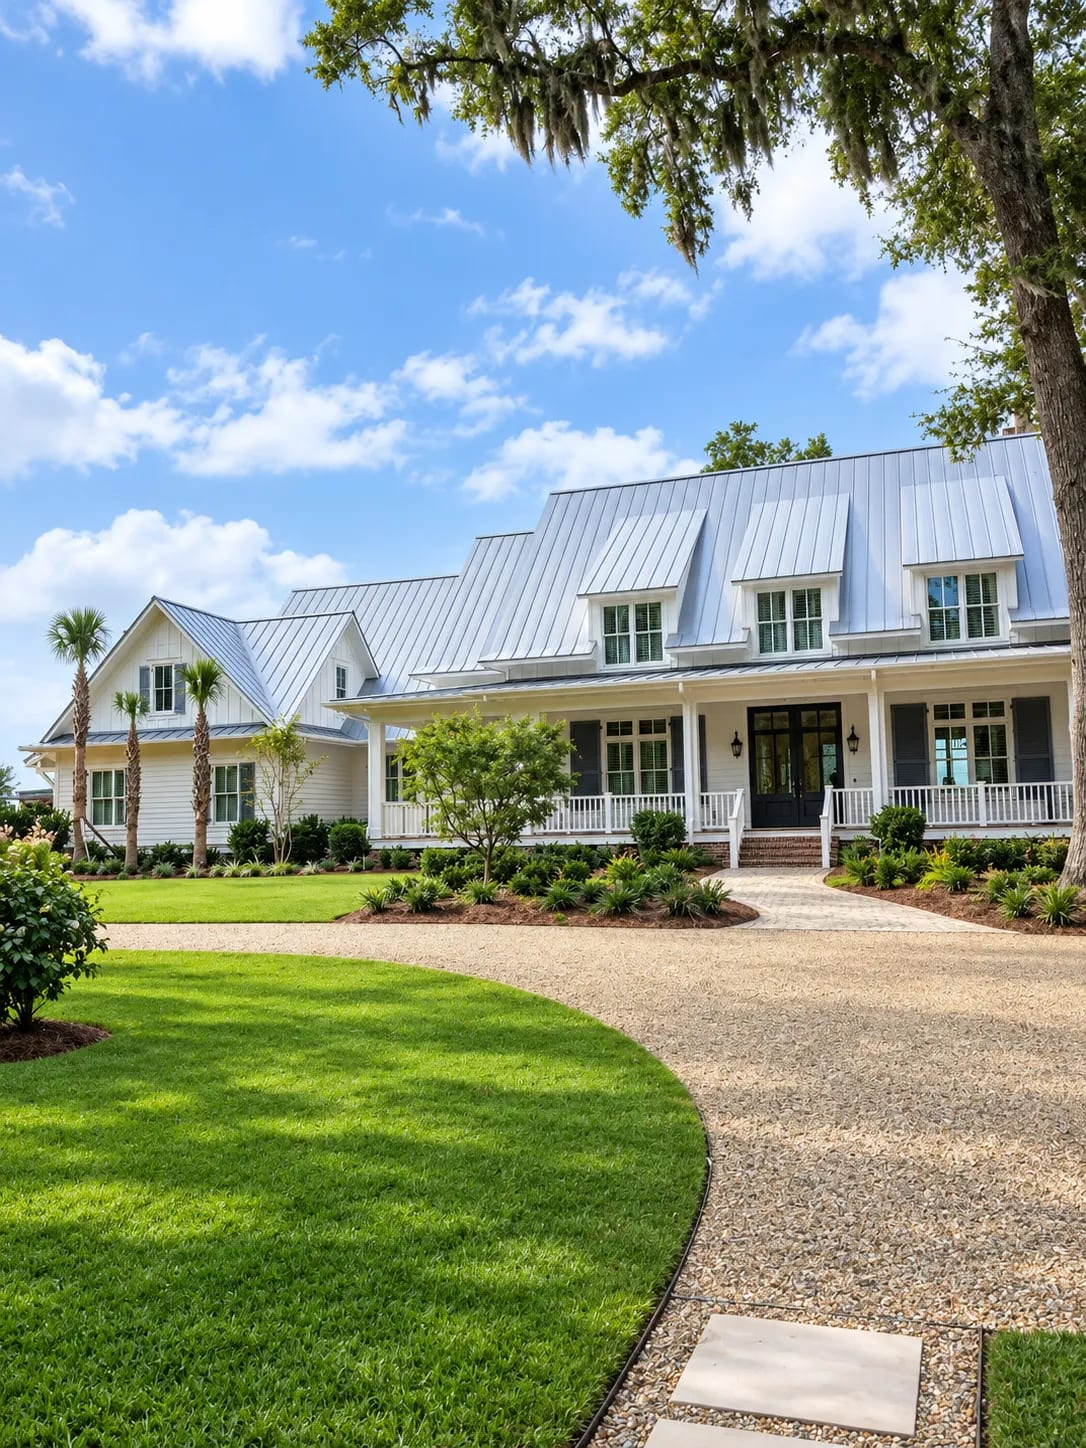
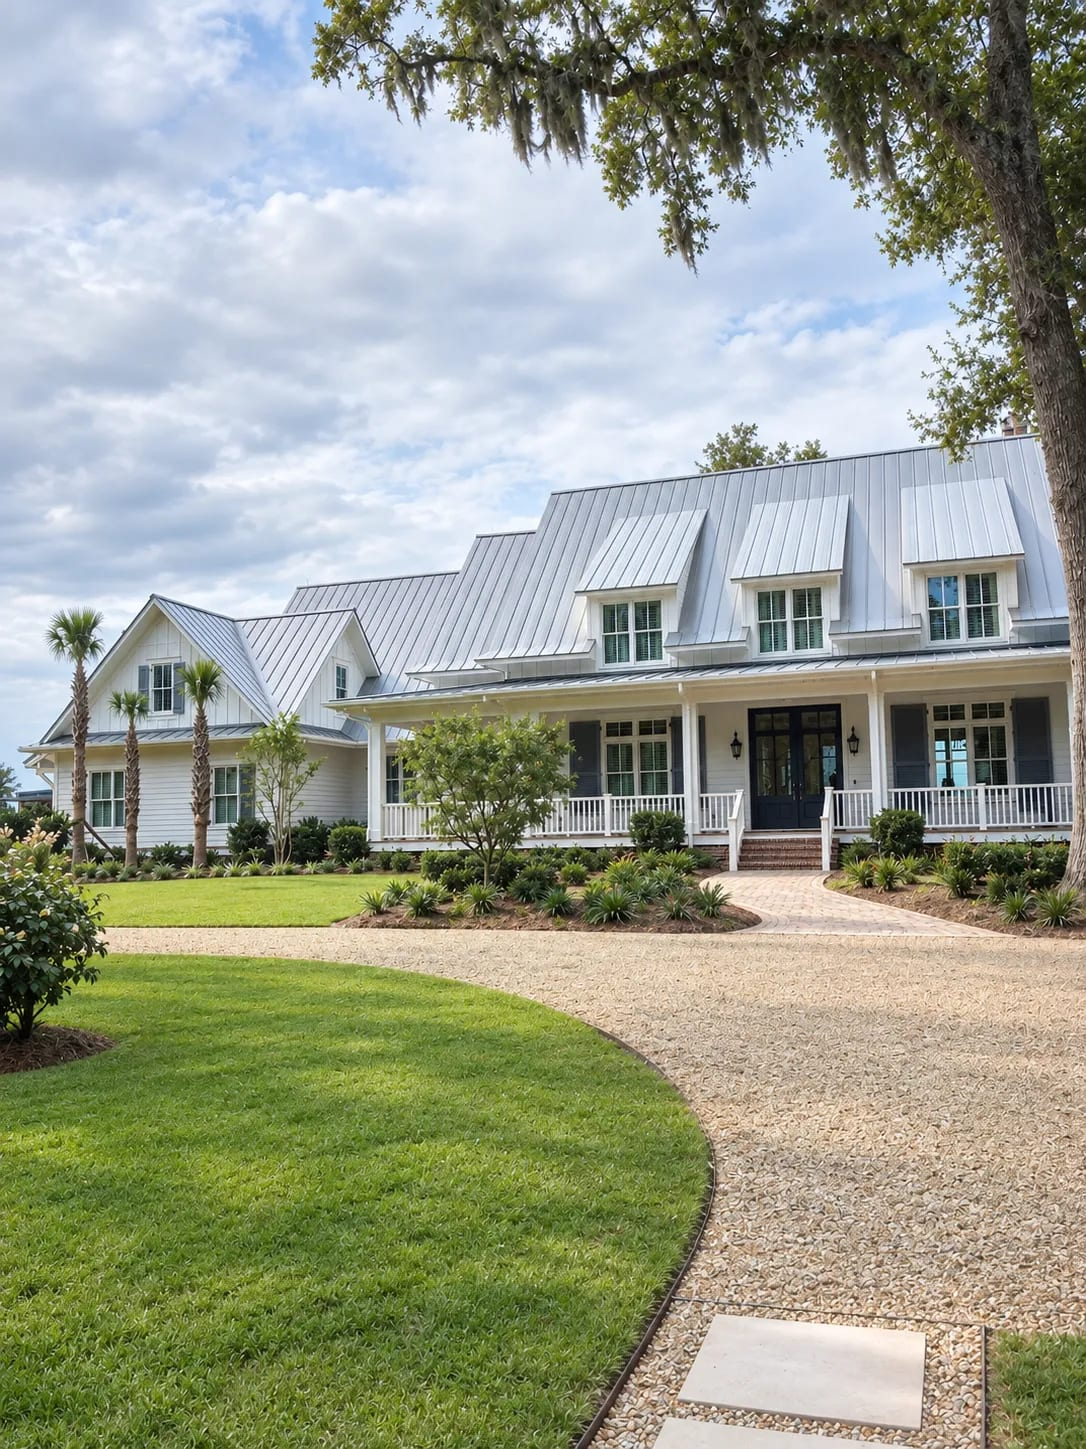
Use lightened original photo for the hero
Replace the retouched hero with a simply brightened version of the client's
original photo, and update the alt text to match.

diff --git a/index.html b/index.html
@@ -103,7 +103,7 @@
 
       <figure class="hero-photo">
         <div class="frame">
-          <img src="assets/img/lowcountry-home.jpg" width="1086" height="1448" alt="Large white home with a wraparound porch, dark front door and standing-seam metal roof under a bright blue sky" fetchpriority="high">
+          <img src="assets/img/lowcountry-home.jpg" width="1086" height="1448" alt="Large white home with a wraparound porch, dark front door and standing-seam metal roof under a partly cloudy sky" fetchpriority="high">
         </div>
         <figcaption class="chip chip--float">
           <span class="chip-swatch" style="--c:#252B30"></span>
